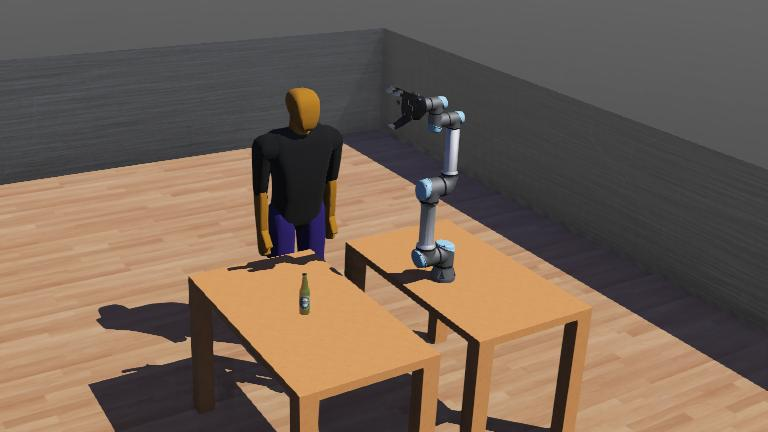
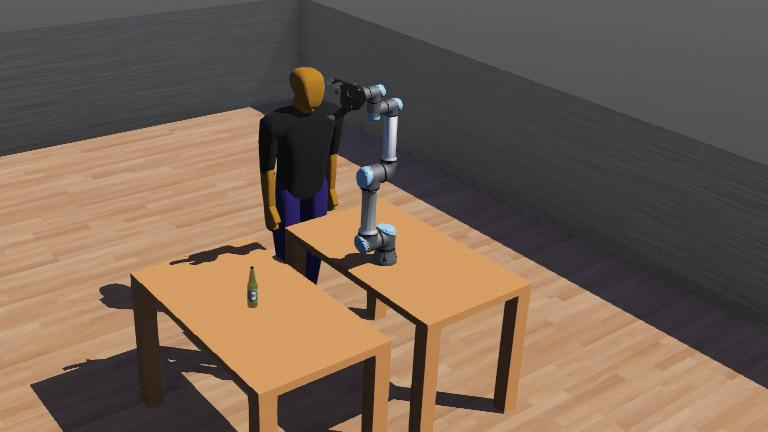
graspping and moving (drinking beer) ok

diff --git a/ur5.py b/ur5.py
@@ -337,6 +337,7 @@ class UR5:
         self.supervisor.step(self.timestep)
         self.joints = None
         self.camera = None
+        self.bottle = None
         self.finger_joints = None
         self.finger_joint_limits = None
         self.init_handles()
@@ -357,6 +358,7 @@ class UR5:
         """
         print("Inicializando os nós e handles...")
         self.camera = self.supervisor.getDevice("camera")
+        self.bottle = self.supervisor.getFromDef("bottle")
         self.joints = [
             "shoulder_pan_joint",
             "shoulder_lift_joint",
@@ -721,3 +723,25 @@ class UR5:
         timef = self.supervisor.getTime()
         print("Iterações totais: ", iterations)
         print(timef - time0)
+
+    def get_bottle_frame(self):
+        Rbottle_world = np.array(
+            self.bottle.getOrientation()
+        ).reshape(3, 3)
+        Tbottle_world = np.array(self.bottle.getPosition()).reshape(
+            3, 1
+        )
+        th6_world = np.hstack(
+            (np.vstack((Rbottle_world, np.zeros((1, 3)))),
+             np.vstack((Tbottle_world, 1)))
+        )
+        R0_world = np.array(
+            self.supervisor.getSelf().getOrientation()).reshape(3, 3)
+        T0_world = np.array(
+            self.supervisor.getSelf().getPosition()).reshape(3, 1)
+        th0_world = np.hstack(
+            (np.vstack((R0_world, np.zeros((1, 3)))), np.vstack((T0_world, 1)))
+        )
+        thworld_0 = np.linalg.inv(th0_world)
+        thbottle_0 = np.dot(thworld_0, th6_world)
+        return thbottle_0
